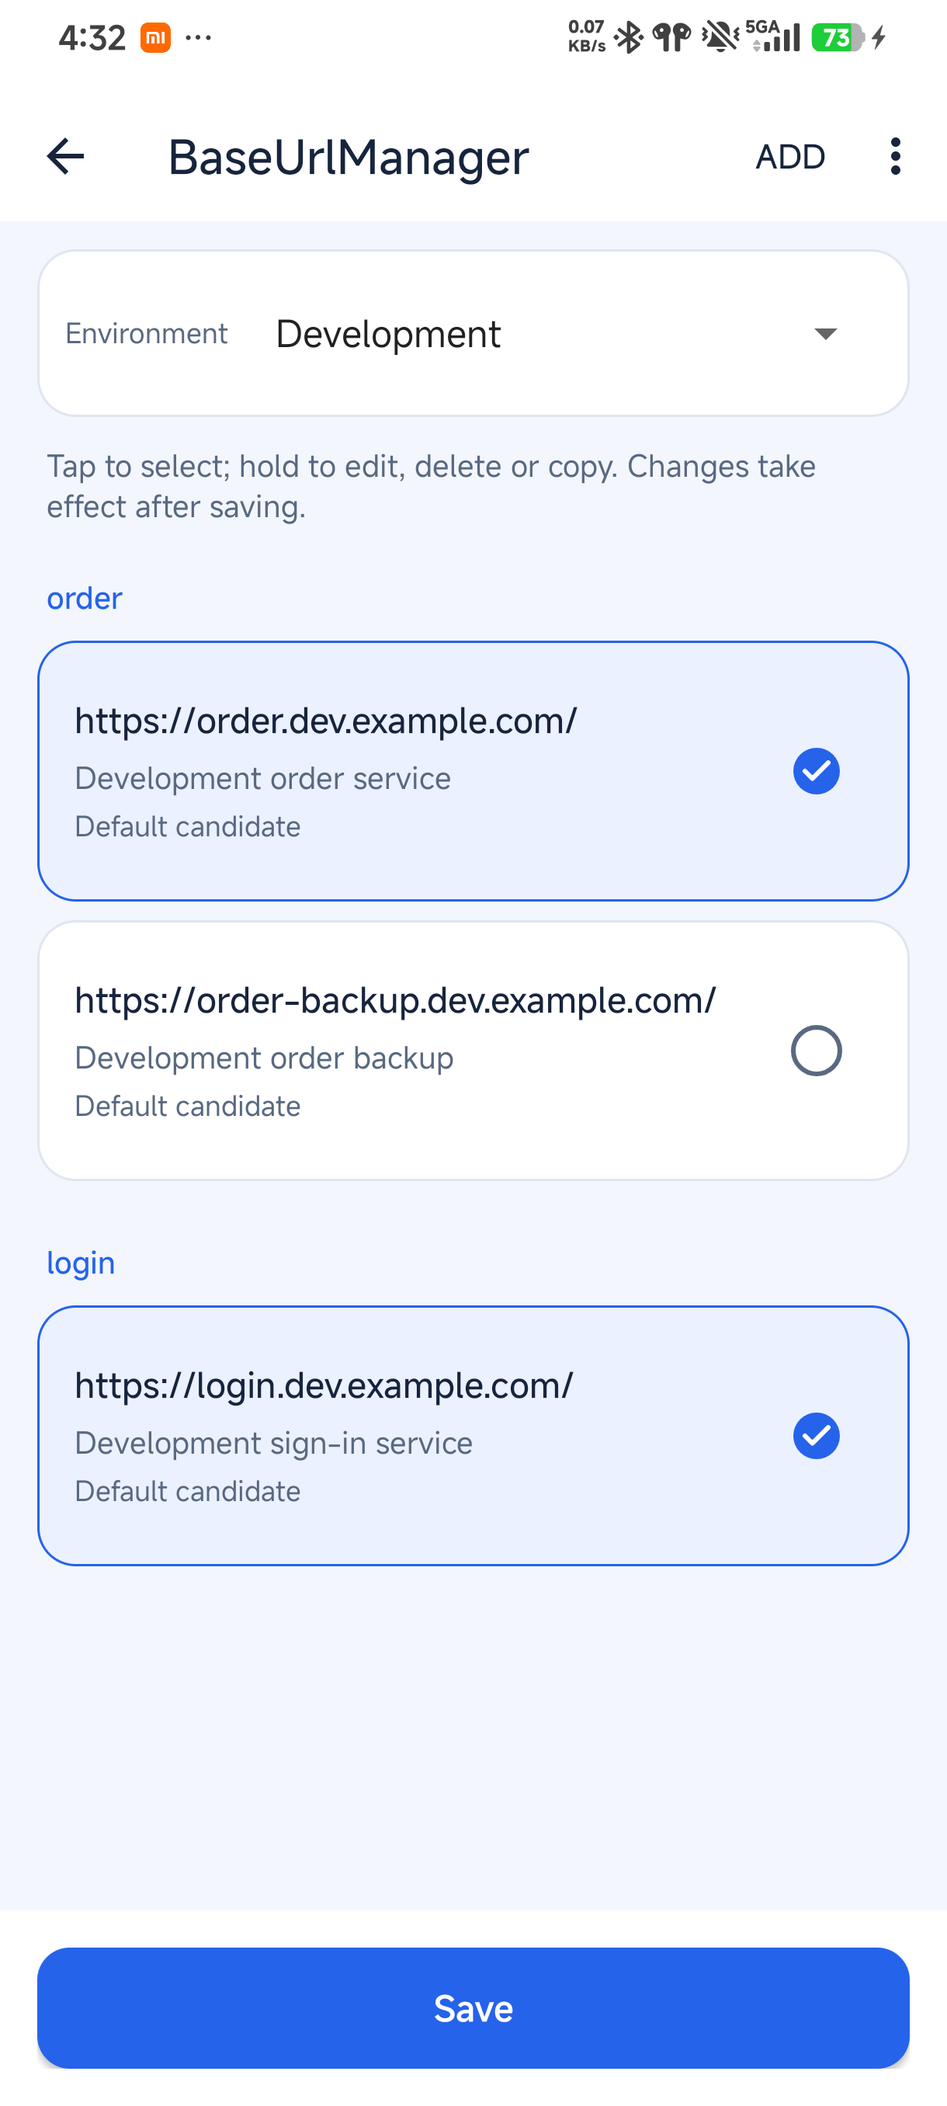
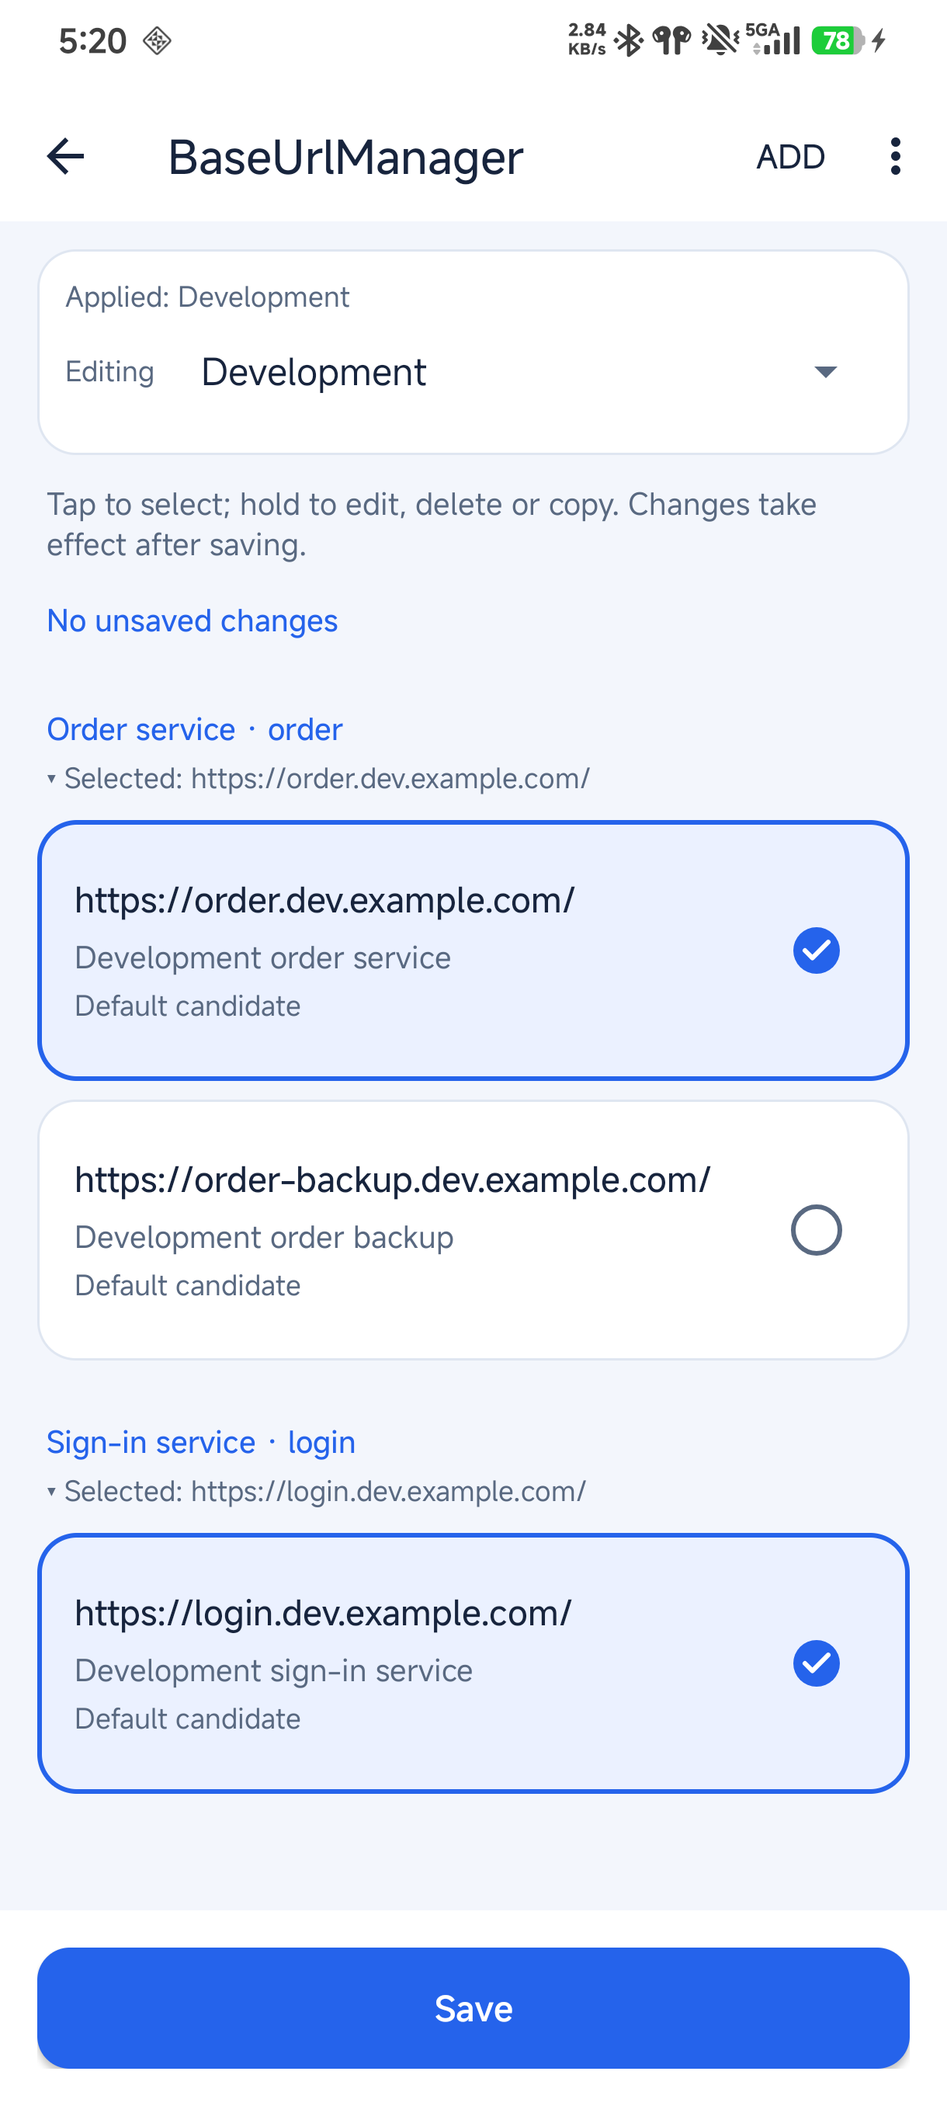
fix(ui): 优化深色主题并准备 1.3.1
统一深色页面、弹窗与菜单配色，改善候选选中状态与输入焦点。
新增选中底色、边框主题属性，保持现有主题继承及颜色资源兼容。
同步真机截图、主题文档、未发布更新记录和版本号。

验证：JVM 61 项、脚本 56 项、主题真机 4 项、R8 消费真机 1 项；
Debug/Release、相关 Lint、双 publication、公开 ABI、旧二进制与源码消费、
独立 AAR/R8 及 14 份文档示例编译通过。完整云端 CI 待提交后执行。

diff --git a/app/src/androidTest/java/com/logan/multiurlmanager/app/MainActivityTest.kt b/app/src/androidTest/java/com/logan/multiurlmanager/app/MainActivityTest.kt
@@ -345,6 +345,7 @@ class MainActivityTest {
                 save.getLocationOnScreen(savePosition)
                 assertTrue(addPosition[1] < savePosition[1])
             }
+            assertCandidateContrast(scenario, night = false)
             capture("editor-light")
         }
     }
@@ -366,7 +367,27 @@ class MainActivityTest {
                     assertTrue(!androidx.core.view.WindowCompat.getInsetsController(activity.window, activity.window.decorView).isAppearanceLightStatusBars)
                 }
                 assertEditorTopSurface(scenario)
+                assertCandidateContrast(scenario, night = true)
                 capture("editor-dark")
+                onView(withId(LibraryR.id.environmentSpinner)).perform(click())
+                onView(withText("Development"))
+                    .inRoot(androidx.test.espresso.matcher.RootMatchers.isPlatformPopup())
+                    .check(matches(androidx.test.espresso.matcher.ViewMatchers.isChecked()))
+                capture("environment-dark")
+                pressBack()
+                androidx.test.espresso.Espresso.openActionBarOverflowOrOptionsMenu(instrumentation.targetContext)
+                capture("menu-dark")
+                onView(withText(LibraryR.string.base_url_export)).perform(click())
+                onView(withId(android.R.id.button2)).inRoot(isDialog()).check(matches(isDisplayed()))
+                capture("export-dark")
+                onView(withId(android.R.id.button2)).inRoot(isDialog()).perform(click())
+                onView(withText("https://order.dev.example.com/")).perform(longClick())
+                capture("actions-dark")
+                onView(withText(LibraryR.string.base_url_edit)).inRoot(isDialog()).perform(click())
+                onView(withId(LibraryR.id.configKeySpinner)).inRoot(isDialog())
+                    .check(matches(org.hamcrest.Matchers.not(androidx.test.espresso.matcher.ViewMatchers.isEnabled())))
+                capture("edit-dark")
+                onView(withId(android.R.id.button2)).inRoot(isDialog()).perform(click())
                 onView(withId(LibraryR.id.actionAdd)).perform(click())
                 onView(withId(LibraryR.id.etUrl)).perform(replaceText("https://night.example.com/"), closeSoftKeyboard())
                 capture("form-dark")
@@ -395,6 +416,77 @@ class MainActivityTest {
             assertEditorTopSurface(scenario)
             capture("editor-landscape")
         }
+    }
+
+    @Test fun selectedCardColorsFollowHostThemeInBothModes() {
+        val instrumentation = InstrumentationRegistry.getInstrumentation()
+        for (mode in listOf(AppCompatDelegate.MODE_NIGHT_NO, AppCompatDelegate.MODE_NIGHT_YES)) {
+            instrumentation.runOnMainSync { AppCompatDelegate.setDefaultNightMode(mode) }
+            ActivityScenario.launch(BaseUrlManagerActivity::class.java).use { scenario ->
+                scenario.onActivity { activity ->
+                    val context = androidx.appcompat.view.ContextThemeWrapper(activity, R.style.SelectionThemeVerification)
+                    val card = requireNotNull(androidx.appcompat.content.res.AppCompatResources.getDrawable(
+                        context, LibraryR.drawable.base_url_candidate
+                    )).mutate()
+                    val density = activity.resources.displayMetrics.density
+                    val width = (240 * density).toInt()
+                    val height = (64 * density).toInt()
+                    val bitmap = android.graphics.Bitmap.createBitmap(width, height, android.graphics.Bitmap.Config.ARGB_8888)
+                    try {
+                        card.setBounds(0, 0, width, height)
+                        card.state = intArrayOf(android.R.attr.state_selected, android.R.attr.state_enabled)
+                        card.draw(android.graphics.Canvas(bitmap))
+                        assertEquals("选中底色应采用宿主题属性", android.graphics.Color.rgb(56, 56, 56), bitmap.getPixel(width / 2, height / 2))
+                        assertEquals("选中描边应采用宿主题属性", android.graphics.Color.rgb(218, 218, 218), bitmap.getPixel(1, height / 2))
+                        bitmap.eraseColor(android.graphics.Color.TRANSPARENT)
+                        card.state = intArrayOf(android.R.attr.state_enabled)
+                        card.draw(android.graphics.Canvas(bitmap))
+                        val normal = android.util.TypedValue().also {
+                            context.theme.resolveAttribute(LibraryR.attr.base_url_item_bg_color, it, true)
+                        }.data
+                        assertEquals("取消选中后应恢复普通卡片底色", normal, bitmap.getPixel(width / 2, height / 2))
+                    } finally { bitmap.recycle() }
+                }
+            }
+        }
+    }
+
+    private fun assertCandidateContrast(scenario: ActivityScenario<BaseUrlManagerActivity>, night: Boolean) {
+        waitForWindowIdle()
+        val bitmap = InstrumentationRegistry.getInstrumentation().uiAutomation.takeScreenshot()
+        try {
+            scenario.onActivity { activity ->
+                val list = activity.findViewById<androidx.recyclerview.widget.RecyclerView>(LibraryR.id.recyclerView)
+                val surfaces = mutableMapOf<Boolean, Int>()
+                val borders = mutableMapOf<Boolean, Int>()
+                for (index in 0 until list.childCount) {
+                    val row = list.getChildAt(index)
+                    val title = row.findViewById<android.widget.TextView>(LibraryR.id.tvUrl) ?: continue
+                    val point = IntArray(2)
+                    row.getLocationOnScreen(point)
+                    val visible = android.graphics.Rect()
+                    val sampleY = point[1] + row.height / 2
+                    if (!row.getGlobalVisibleRect(visible) || sampleY !in visible.top until visible.bottom) continue
+                    // 在文字左侧、圆角和描边以内采样真实卡片底色。
+                    val surface = bitmap.getPixel(point[0] + (8 * row.resources.displayMetrics.density).toInt(), sampleY)
+                    surfaces[row.isSelected] = surface
+                    borders[row.isSelected] = bitmap.getPixel(point[0] + 1, sampleY)
+                    for (text in listOf(title, row.findViewById<android.widget.TextView>(LibraryR.id.tvUrlRemark),
+                            row.findViewById<android.widget.TextView>(LibraryR.id.tvSource))) {
+                        assertTrue("候选正文与备注对比度至少为 4.5:1",
+                            androidx.core.graphics.ColorUtils.calculateContrast(text.currentTextColor, surface) >= 4.5)
+                    }
+                }
+                assertTrue("视口应包含选中和未选中的候选", surfaces.keys.containsAll(listOf(true, false)))
+                if (night) {
+                    assertTrue("选中卡片仍应保持深色底",
+                        androidx.core.graphics.ColorUtils.calculateLuminance(surfaces.getValue(true)) < 0.1)
+                    assertTrue("选中与未选中的底色应有区别", surfaces.getValue(true) != surfaces.getValue(false))
+                    assertTrue("选中描边与卡片底色对比度至少为 3:1",
+                        androidx.core.graphics.ColorUtils.calculateContrast(borders.getValue(true), surfaces.getValue(true)) >= 3.0)
+                }
+            }
+        } finally { bitmap.recycle() }
     }
 
     private fun assertEditorTopSurface(scenario: ActivityScenario<BaseUrlManagerActivity>) {

diff --git a/library-android/src/main/java/com/logan/multiurlmanager/library/BaseUrlManagerActivity.kt b/library-android/src/main/java/com/logan/multiurlmanager/library/BaseUrlManagerActivity.kt
@@ -499,7 +499,7 @@ class BaseUrlManagerActivity : AppCompatActivity() {
     }
 
     private fun spinnerAdapter(items: List<String>) = ArrayAdapter(this, android.R.layout.simple_spinner_item, items).apply {
-        setDropDownViewResource(android.R.layout.simple_spinner_dropdown_item)
+        setDropDownViewResource(R.layout.base_url_spinner_dropdown_item)
     }
 
     private fun changeUrls(update: (List<BaseUrl>) -> List<BaseUrl>): Boolean {

diff --git a/docs/development.md b/docs/development.md
@@ -49,6 +49,18 @@ JVM 测试关注 URL、单选、环境和失败结果，并直接用真实配置
 
 新增逻辑应提供行为测试，明确预期和错误路径，不依赖公网真实站点、设备已有数据或集合遍历顺序。版本升级同步迁移文档与 [变更记录](../CHANGELOG.md)。CI 的实际执行路径与报告见 [CI 与发布](ci-and-release.md)。1.2.0 在 API 24/36 上收集 8 套必需设备套件（app、library、okhttp、R8 consumer、1.0.6/1.1.0 Debug/Release 升级），候选共 22 个 APK 和两个同版本 Maven 坐标；候选 schema 2 保留旧 schema 1 / 1.1 发布恢复读取能力。
 
+## 1.3.1 本地发布准备（2026-11-11）
+
+本节记录提交前的本地验收，源码版本 `1.3.1` / Demo versionCode `10`；本地验收不代表正式发布。深色样式及两个选中态主题属性的使用见[自定义主题](ui-and-network.md#自定义主题)。README 安装示例继续使用 Central 已发布的 1.3.0；新截图展示当前源码。
+
+本地已通过核心/网络 JVM 61 项、CI 脚本 56 项、Debug/Release 应用与测试 APK、相关 Lint、双制品 Release AAR 与本地 Maven publication、坐标及批次名检查。真实 1.0.6/1.1.0/1.2.0 公开 ABI 基线通过；额外用已核验摘要的公开 1.3.0 核心 AAR 对比 39 类、365 个成员（含配置交换 API）通过。1.1.0/1.2.0 旧二进制及当前源码的 Kotlin/Java 消费运行通过。
+
+独立宿主从本轮本地 Maven 解析两个 1.3.1 AAR，Debug、R8 minified、测试 APK 以及 14 份完整文档示例编译通过。Android 16 真机的 R8 消费 1 项通过、零跳过（2.638 秒），覆盖持久化重读、配置交换、实际路由及管理页启动。主题定向 4 项通过，包括宿主题覆盖在深浅色下的实际绘制、取消选中恢复、默认页面与表单恢复；页面内容区域与 README 深浅色截图像素一致。测试后 Demo 文件逐字节恢复，应用语言恢复跟随系统。
+
+属性化前的应用 34 项用例按 33＋1 分组通过；连续运行曾被系统自启动限制与剪贴板识别跳转干扰，原失败记录保留。最终属性化改动仅重跑上述 4 项定向用例，不能把此前分组结果当作最终提交的完整设备套件通过。日志位于忽略目录 `build/verification/redmi-theme-20261111/`、`build/verification/theme-1.3.1/` 和 `build/verification/release-prep-1.3.1/`。
+
+正式签名与发布仍须使用对应 main 提交完整 CI 成功后封存的同轮候选；本地构建和历史 1.3.0 CI 不能替代这一门槛。
+
 ## 1.3.0 开发版本云端验收（2026-11-11）
 
 功能提交 `7c21dbe` 的[完整 CI #25](https://github.com/logan0817/MultiUrlManager/actions/runs/42970920750)首轮通过 quality、API 24、API 36 和 required。两端各执行页面 34 项、核心 26 项、网络 2 项、真实 AAR/R8 消费 1 项，共 63 项测试；真实 1.0.6/1.1.0/1.2.0 的 Debug/Release 升级共 36 阶段全部通过。包括新文件回调、容量保护、预览冲突与恢复、Java/Kotlin 接入和固定模式隔离。

diff --git a/docs/ui-and-network.md b/docs/ui-and-network.md
@@ -32,6 +32,49 @@
 
 管理页顶部状态栏安全区与 Toolbar 共用 `base_url_toolbar_bg_color`，形成连续的顶部背景；列表内容仍使用 `base_url_bg_color`。状态栏图标明暗依据 Toolbar 背景，导航栏图标明暗依据页面底色分别计算。宿主自定义深色 Toolbar、浅色页面时，两处图标也会分别适配。
 
+## 自定义主题
+
+继承 `BaseUrlManagerTheme`，再按 [README 中的 Manifest 示例](../README.md#自定义页面主题)把主题应用到库 Activity。库会按深浅色资源选择默认配色；宿主不需要新增 Activity 或复制库布局。
+
+1.3.1 源码的深色默认采用中性灰阶。选中候选保留浅色文字和深灰底，通过略亮的底色、细边框及勾选图标区分；弹窗、菜单和下拉列表使用页面的表面与文字颜色。输入框聚焦时显示强调色描边，下拉列表显示当前项单选标记。1.3.1 尚未发布，以下新增属性不适用于 Central 的 1.3.0。
+
+| 属性 | 作用 |
+| --- | --- |
+| `base_url_bg_color` | 页面与输入框底色 |
+| `base_url_toolbar_bg_color` / `base_url_page_title_text_color` | 工具栏和标题颜色 |
+| `base_url_item_bg_color` | 普通卡片、默认弹窗和菜单表面色 |
+| `base_url_item_url_text_color` / `base_url_item_url_remark_text_color` | 候选正文、备注及默认浮层文字颜色 |
+| `base_url_edit_url_text_color` | 输入文字颜色 |
+| `base_url_btn_add_bg_color` / `base_url_btn_add_text_color` | 底部保存按钮背景与文字颜色 |
+| `base_url_item_header_key_bg_color` / `base_url_item_header_key_text_color` | 分组标题背景与文字颜色 |
+| `base_url_item_selected_bg_color` | 1.3.1 新增：选中候选底色 |
+| `base_url_item_selected_stroke_color` | 1.3.1 新增：选中候选边框颜色 |
+| `colorAccent` | 勾选图标、复选框、输入焦点及弹窗操作强调色 |
+
+例如，在宿主 `res/values/styles.xml` 中设置浅色主题：
+
+```xml
+<resources>
+    <style name="AppUrlManagerTheme" parent="BaseUrlManagerTheme">
+        <item name="base_url_item_selected_bg_color">#EBF1FF</item>
+        <item name="base_url_item_selected_stroke_color">#245DE8</item>
+    </style>
+</resources>
+```
+
+在宿主 `res/values-night/styles.xml` 中为同名主题提供对应深色值：
+
+```xml
+<resources>
+    <style name="AppUrlManagerTheme" parent="BaseUrlManagerTheme">
+        <item name="base_url_item_selected_bg_color">#303030</item>
+        <item name="base_url_item_selected_stroke_color">#B8B8B8</item>
+    </style>
+</resources>
+```
+
+选中底色不会反转正文与备注文字，请一起核对普通和选中状态的可读性。浅色选中边框默认跟随 `colorAccent`，深色默认使用浅灰描边；已有宿主若覆盖 `base_url_selected_surface` 颜色资源，仍会影响未另行设置主题属性的选中底色。圆角、间距与边框宽度没有新增主题属性；需要替换整体布局时，应自行实现页面并调用管理器 API。
+
 ## Activity Result
 
 ```kotlin

diff --git a/README_EN.md b/README_EN.md
@@ -10,6 +10,8 @@ The current stable version is **1.3.0**, available from Maven Central. The core 
 
 Exchange configuration files with teammates through the system file picker, using merge by default or replacing selected environments. See [team configuration exchange](#exchange-team-configurations).
 
+The source is preparing **1.3.1 (unreleased)** with dark-theme fixes and selected-item theme attributes. The candidate core coordinate is `io.github.logan0817:multiurlmanager:1.3.1`; the installation examples below continue to use the published `1.3.0`.
+
 ## Start here
 
 - **First integration**: follow the [quick start](#quick-start) to configure, initialize, open the screen and verify a switch.
@@ -502,7 +504,7 @@ Override the library Activity's theme in the host manifest:
 </manifest>
 ```
 
-Provide matching dark colors in `values-night`. The status-bar safe area and toolbar share `base_url_toolbar_bg_color`; system-bar icons adapt to the actual background. See [attrs.xml](library-android/src/main/res/values/attrs.xml) for all attributes. Existing `base_url_btn_add_*` names now style the bottom Save button, preserving theme compatibility.
+Provide matching dark colors in `values-night`. The 1.3.1 source adds `base_url_item_selected_bg_color` (selected background) and `base_url_item_selected_stroke_color` (selected border); URL and remark text retain their existing colors. The default dark theme uses neutral grays, keeps selected cards dark, and shares screen colors with dialogs, menus and dropdowns. See the [theme configuration](docs/ui-and-network.md#自定义主题) for light/dark examples. The status-bar safe area and toolbar share `base_url_toolbar_bg_color`; system-bar icons adapt to the actual background. See [attrs.xml](library-android/src/main/res/values/attrs.xml) for all attributes. Existing `base_url_btn_add_*` names now style the bottom Save button, preserving theme compatibility.
 
 </details>
 

diff --git a/README.md b/README.md
@@ -8,6 +8,8 @@
 
 当前稳定版 **1.3.0**，已发布到 Maven Central。核心库不依赖 Retrofit 或 OkHttp；本版新增 JSON 文件导入导出、差异预览，并修复默认配置升级和页面编辑的可靠性问题。
 
+当前源码准备 **1.3.1（尚未发布）**，包含深色样式修正和选中态主题属性；候选核心坐标为 `io.github.logan0817:multiurlmanager:1.3.1`。下方安装示例继续使用已发布的 `1.3.0`。
+
 配置文件可通过系统文件选择器在同事之间交换，支持默认合并和选定环境替换，操作步骤见[团队交换配置](#团队交换配置)。
 
 ## 从这里开始
@@ -502,7 +504,7 @@ Java 调用见 [Java 示例](app/src/main/java/com/logan/multiurlmanager/JavaInt
 </manifest>
 ```
 
-为 `values-night` 提供对应深色主题颜色。状态栏安全区与 Toolbar 共用 `base_url_toolbar_bg_color`，系统栏图标随实际背景明暗适配。完整属性见 [attrs.xml](library-android/src/main/res/values/attrs.xml)；保留的 `base_url_btn_add_*` 属性名现用于底部保存主按钮，以兼容旧主题。
+为 `values-night` 提供对应深色主题颜色。1.3.1 源码新增 `base_url_item_selected_bg_color`（选中底色）和 `base_url_item_selected_stroke_color`（选中边框），可在自定义主题中覆盖；正文与备注沿用原颜色。深色默认使用灰阶，选中卡片保持深底浅字，弹窗、菜单和下拉列表沿用页面主题。完整深浅色示例见[主题配置](docs/ui-and-network.md#自定义主题)。状态栏安全区与 Toolbar 共用 `base_url_toolbar_bg_color`，系统栏图标随实际背景明暗适配。完整属性见 [attrs.xml](library-android/src/main/res/values/attrs.xml)；保留的 `base_url_btn_add_*` 属性名现用于底部保存主按钮，以兼容旧主题。
 
 </details>
 

diff --git a/docs/ci-and-release.md b/docs/ci-and-release.md
@@ -4,7 +4,7 @@
 
 ## 普通验证
 
-当前源码版本为已发布的 `1.3.0`，Demo versionCode 为 `9`。正式候选提交 `1825626` 的开发分支 [CI #27](https://github.com/logan0817/MultiUrlManager/actions/runs/42975843616) 与 [main CI #28](https://github.com/logan0817/MultiUrlManager/actions/runs/42978138859) 均完整通过 quality、API 24/36 和 required。此前 `1.3.0-SNAPSHOT` 的开发验收与历史边界见 [1.3.0 计划](plans/v1.3.0-implementation-plan.md)。
+当前源码准备 `1.3.1`（尚未发布），Demo versionCode 为 `10`；Maven Central 当前稳定版仍为 `1.3.0`。下述 1.3.0 CI 与发布记录属于历史发行证据，不能代替 1.3.1 的候选验收。1.3.0 正式候选提交 `1825626` 的开发分支 [CI #27](https://github.com/logan0817/MultiUrlManager/actions/runs/42975843616) 与 [main CI #28](https://github.com/logan0817/MultiUrlManager/actions/runs/42978138859) 均完整通过 quality、API 24/36 和 required。此前 `1.3.0-SNAPSHOT` 的开发验收与历史边界见 [1.3.0 计划](plans/v1.3.0-implementation-plan.md)。
 
 CI 覆盖 PR、main push、merge_group 与手动验证，使用标准 Ubuntu 24.04、JDK 17。1.3.0 工作流另配置 `feat/v1.3.0-development` 分支 push，便于获授权后收集 API 24/36 结果；配置触发条件不等于本轮已获推送或云端执行授权。使用开发分支 push 验收时避免同时触发等价 PR 验证。PR 新提交取消该 PR 旧运行；非 PR 按 run ID 独立分组，避免同一 main 分支的后续提交替换此前 pending 验证。发布单独串行，不取消正在执行的发布。
 

diff --git a/CHANGELOG.md b/CHANGELOG.md
@@ -1,5 +1,14 @@
 # 更新记录
 
+## 1.3.1（未发布）
+
+- 深色管理页采用中性灰阶，选中候选保留深底浅字，通过轻微底色变化、细边框和勾选标记区分状态。
+- 统一弹窗、菜单、下拉列表和输入框的主题颜色，增加下拉列表当前项标记及输入焦点描边。
+- 新增选中候选底色与描边主题属性，宿主可分别配置深浅色；既有主题属性继续兼容。
+- 更新中英文 README 的 Android 16 真机截图及主题配置说明。
+
+源码版本为 `1.3.1` / Demo versionCode `10`，尚未发布；Maven Central 当前稳定版仍为 `1.3.0`。
+
 ## 1.3.0（2026-11-11）
 
 - 默认配置升级纳入原子保存和 revision 管理，避免恢复的旧草稿覆盖升级地址。
